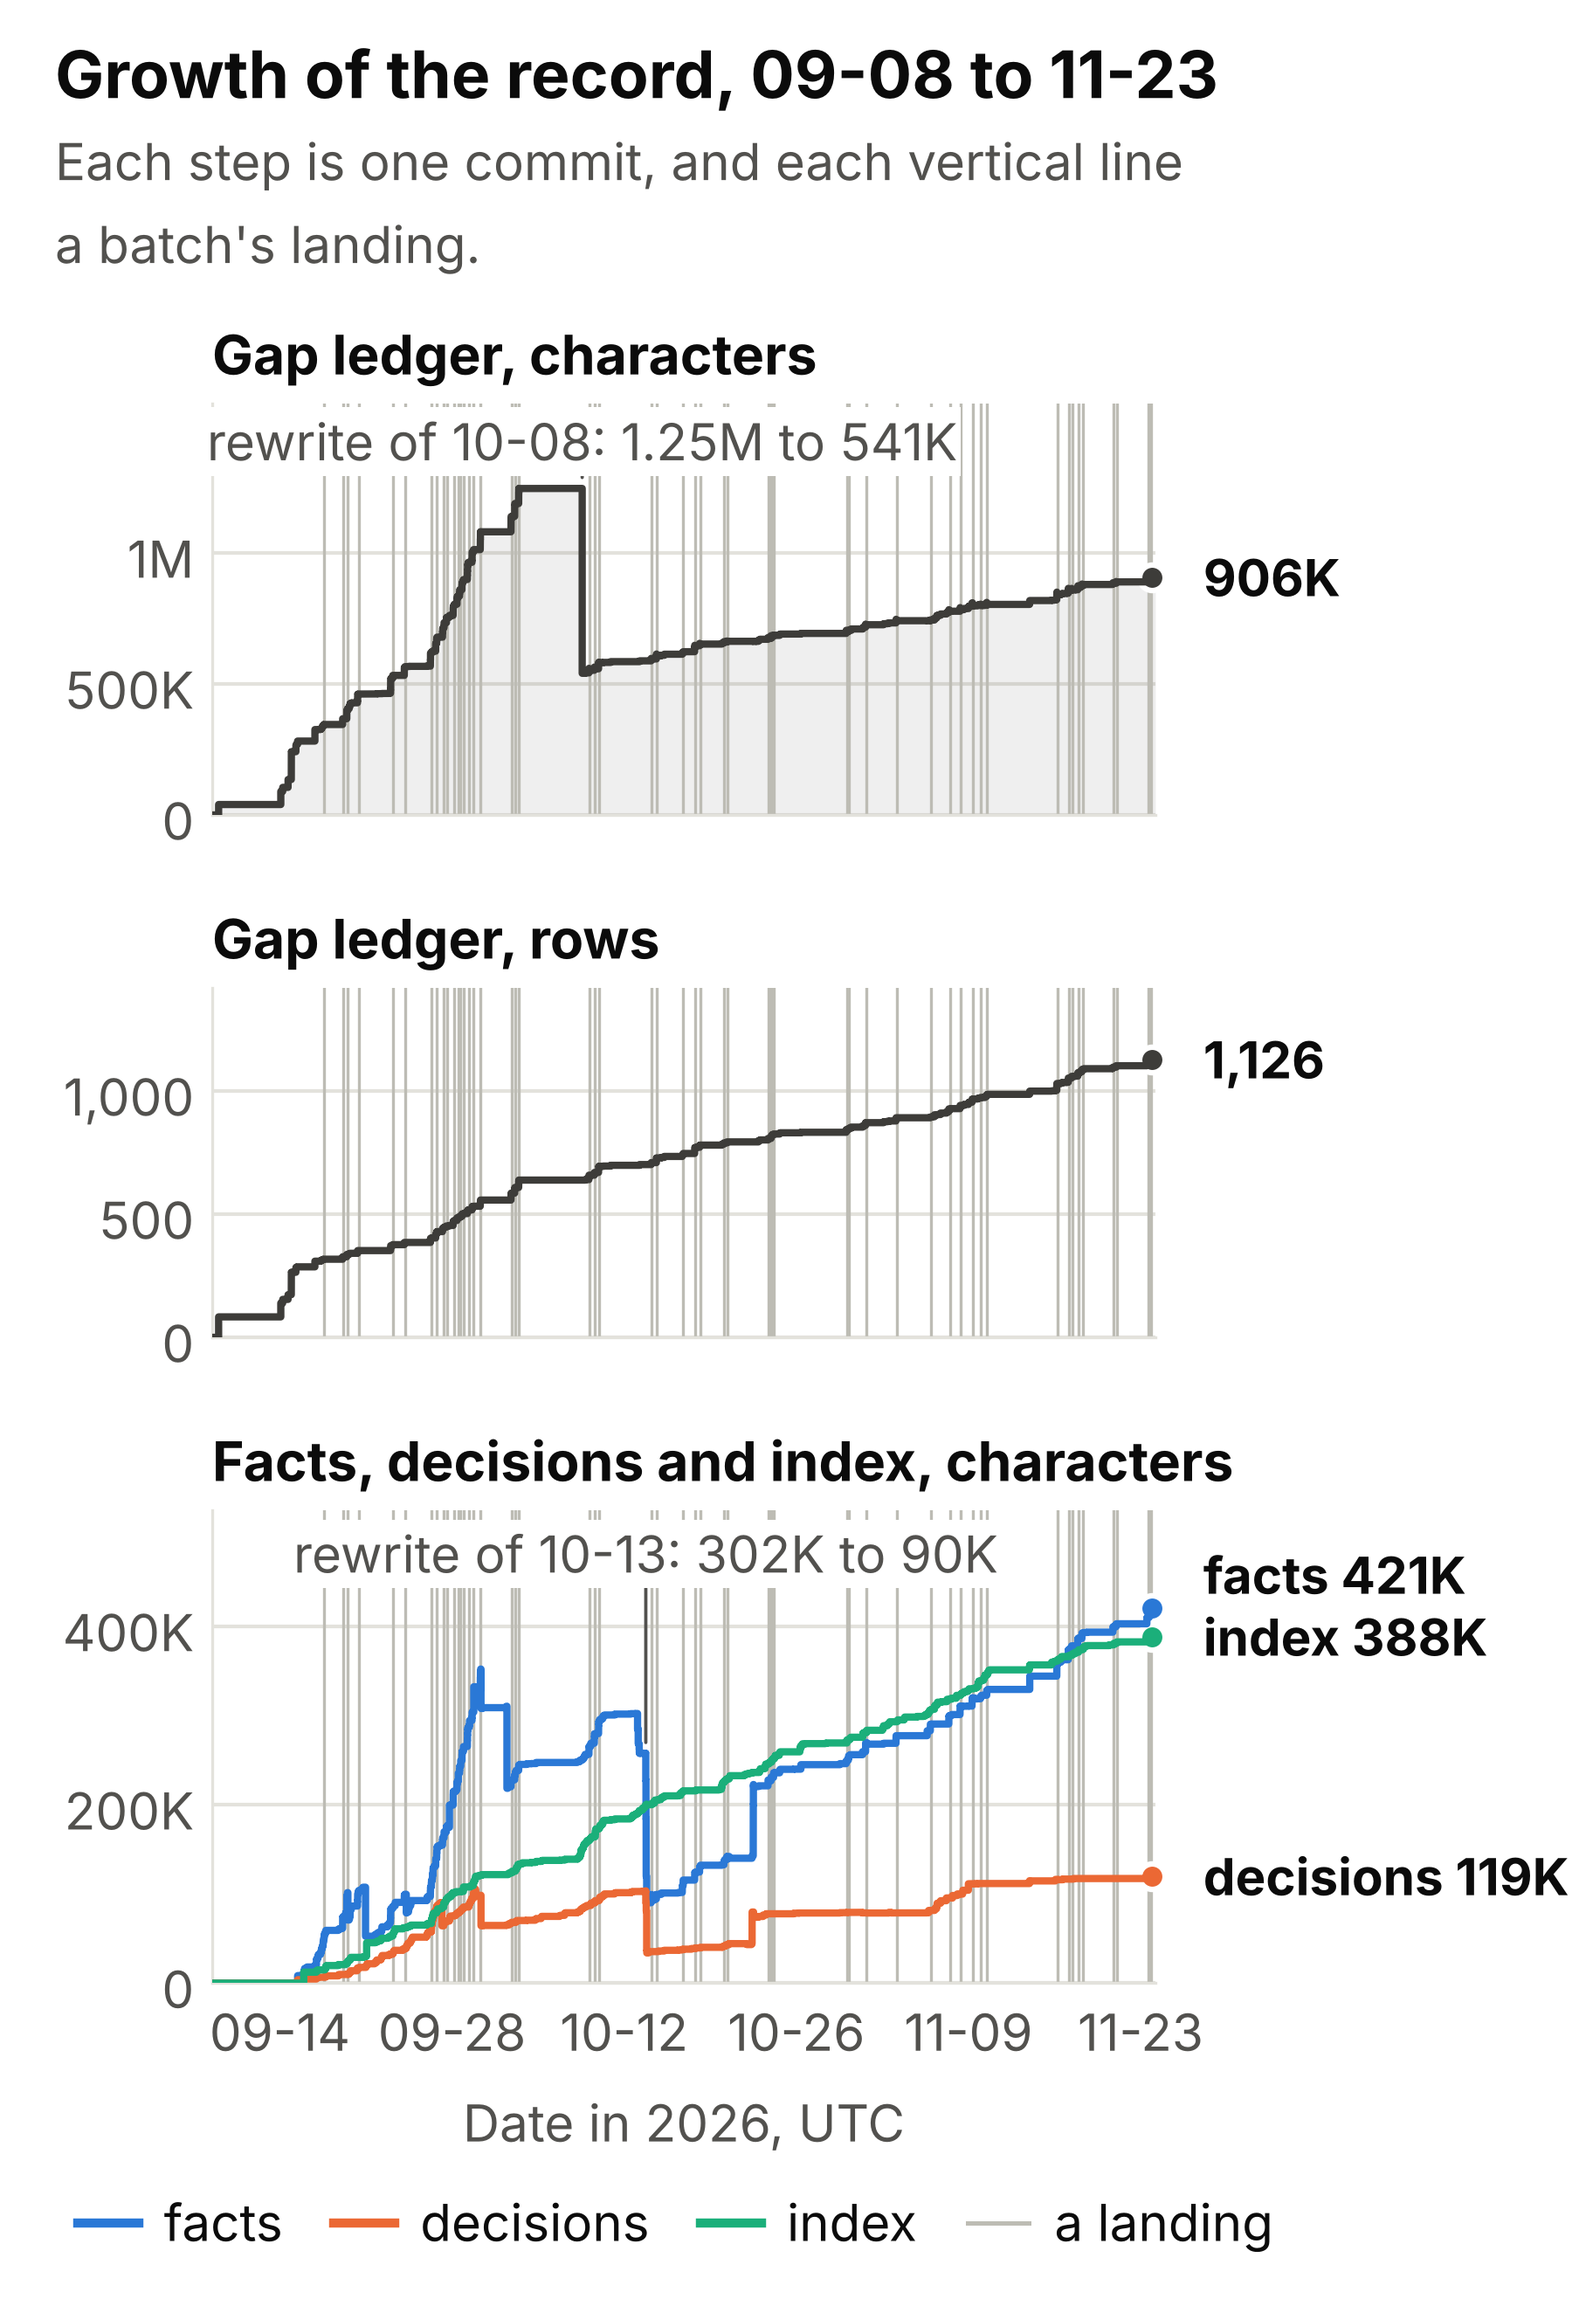
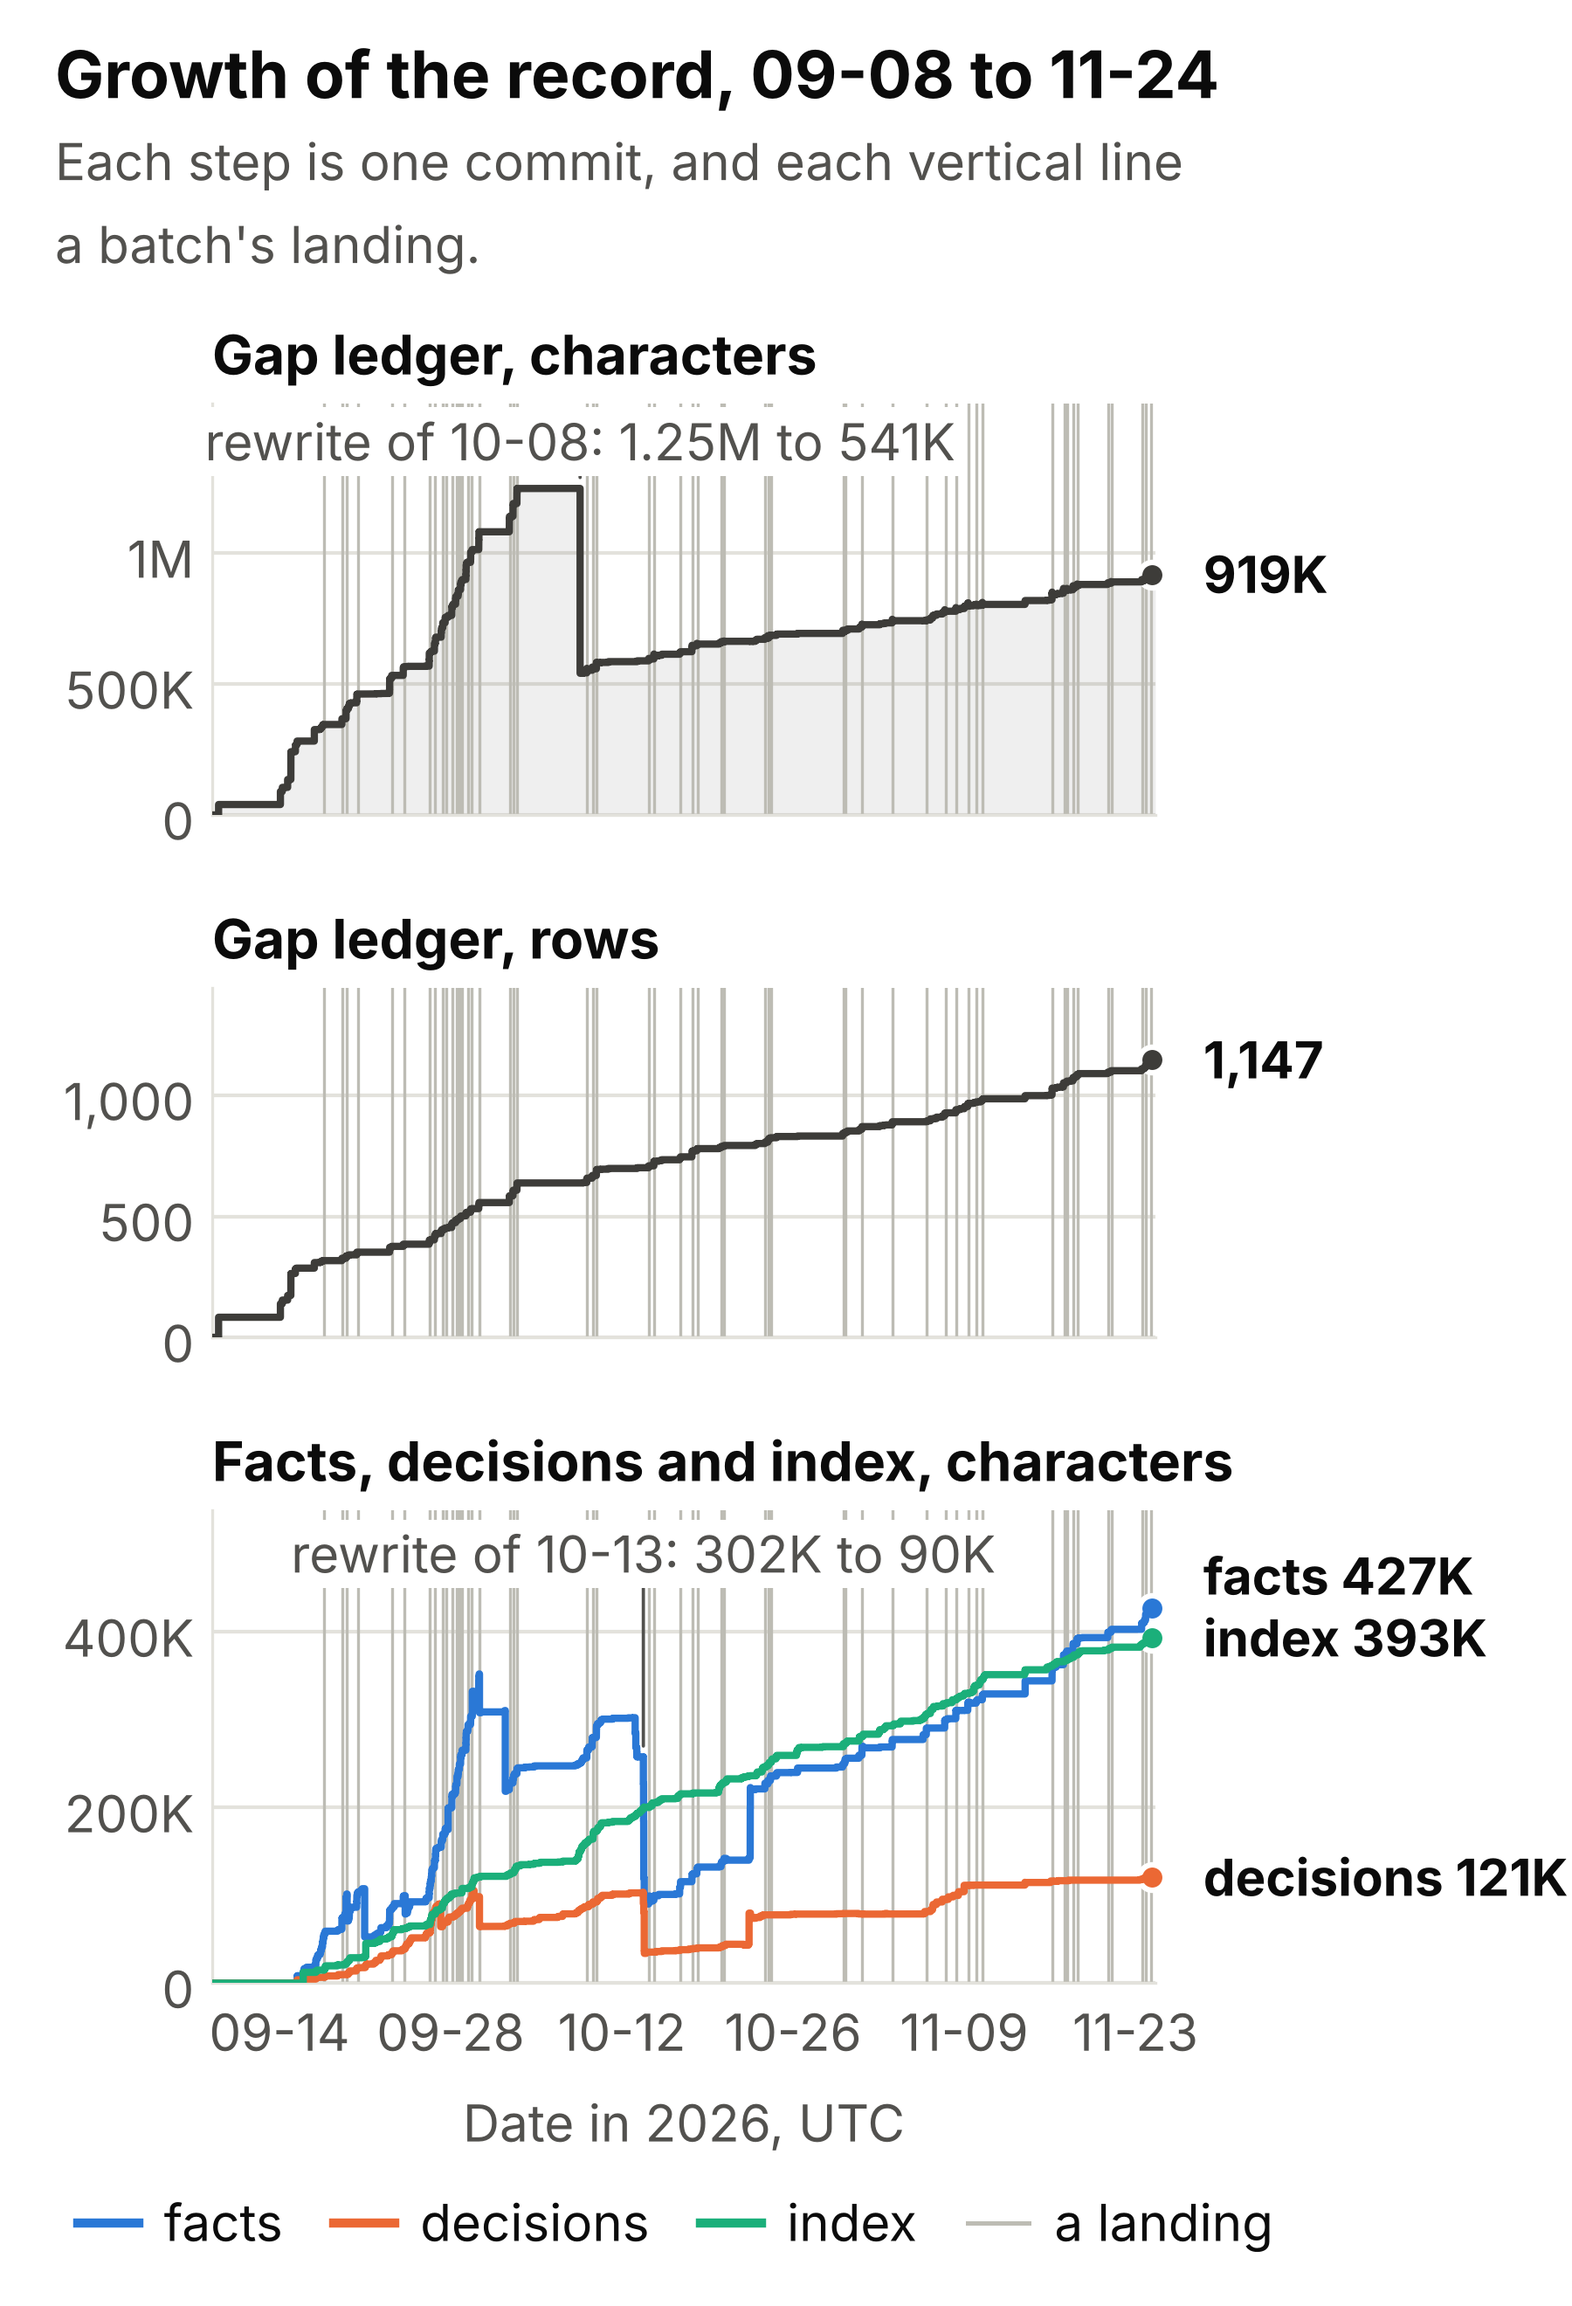
Revival page: where it stands at the landing of climb batch 36, the record chart regenerated
By the climb batch 36 landing workflow.

Claude-Session: https://claude.ai/code/session_01AmiXNpJxQ6TBwec4vJZHDB

diff --git a/docs/revival-story/index.html b/docs/revival-story/index.html
@@ -203,7 +203,7 @@ details.words dl.gloss dd { margin-left: 1em; }
 <p>A script rewrites the block below at each landing, from the plan and the gate. The rest of the page changes when a phase ends; it was last brought up to date on 23 November, at batch 35b.</p>
 <div class="intro">
 <!-- stand:begin -->
-<p><strong>Where it stands, at the landing of batch 35b on 23 November 2026</strong></p>
+<p><strong>Where it stands, at the landing of batch 36 on 24 November 2026</strong></p>
 <ul>
 <li><strong>Phase:</strong> 4 of 6, which ends with the switch-over, since 30 October.</li>
 <li><strong>Checker count:</strong> 0.</li>
@@ -211,7 +211,7 @@ details.words dl.gloss dd { margin-left: 1em; }
 <li><strong>Native bindings that both implementations can call:</strong> 373 of 401.</li>
 <li><strong>microGPT under the interpreter:</strong> the flat and the APL program pass the quick check.</li>
 <li><strong>microGPT on the compiler:</strong> both programs stop at names that only the library declares, until the switch-over.</li>
-<li><strong>Next:</strong> no batch is planned yet; by the curator's decision, the rest of the switch-over takes microGPT's slice first.</li>
+<li><strong>Next:</strong> batch 36b, the second run of batch 36.</li>
 </ul>
 <!-- stand:end -->
 </div>
@@ -309,7 +309,7 @@ details.words dl.gloss dd { margin-left: 1em; }
 <section id="the-record" class="part">
 <h2>7. The record</h2>
 <p>The record is the project's notes, kept in the repository beside the team's code. Its main parts are the gap ledger (section 5), the list of facts, the list of the curator's decisions, and an index of all notes. An agent reads the parts its task needs before it starts, so no agent works out again what the record holds.</p>
-<figure><img src="record-growth.png" alt="The gap ledger&#x27;s characters and rows, and the sizes of the facts, the decisions and the index, commit by commit from 09-08 to 11-23, with each batch&#x27;s landing marked" width="900" height="1320"></figure>
+<figure><img src="record-growth.png" alt="The gap ledger&#x27;s characters and rows, and the sizes of the facts, the decisions and the index, commit by commit from 09-08 to 11-24, with each batch&#x27;s landing marked" width="900" height="1320"></figure>
 <p>The chart has three panels on one time axis, with a vertical line at each batch's landing. They show the ledger's characters, its rows, and the sizes of the facts, the decisions and the index. The ledger grows mostly while batches run, and the index by one line for each new note. Each sharp fall is a rewrite that shortened the entries, with the earlier text kept in history.</p>
 </section>
 <footer>

diff --git a/explorations/coordinator/process-engineering/revival-story.html b/explorations/coordinator/process-engineering/revival-story.html
@@ -196,7 +196,7 @@ details.words dl.gloss dd { margin-left: 1em; }
 <p>A script rewrites the block below at each landing, from the plan and the gate. The rest of the page changes when a phase ends; it was last brought up to date on 23 November, at batch 35b.</p>
 <div class="intro">
 <!-- stand:begin -->
-<p><strong>Where it stands, at the landing of batch 35b on 23 November 2026</strong></p>
+<p><strong>Where it stands, at the landing of batch 36 on 24 November 2026</strong></p>
 <ul>
 <li><strong>Phase:</strong> 4 of 6, which ends with the switch-over, since 30 October.</li>
 <li><strong>Checker count:</strong> 0.</li>
@@ -204,7 +204,7 @@ details.words dl.gloss dd { margin-left: 1em; }
 <li><strong>Native bindings that both implementations can call:</strong> 373 of 401.</li>
 <li><strong>microGPT under the interpreter:</strong> the flat and the APL program pass the quick check.</li>
 <li><strong>microGPT on the compiler:</strong> both programs stop at names that only the library declares, until the switch-over.</li>
-<li><strong>Next:</strong> no batch is planned yet; by the curator's decision, the rest of the switch-over takes microGPT's slice first.</li>
+<li><strong>Next:</strong> batch 36b, the second run of batch 36.</li>
 </ul>
 <!-- stand:end -->
 </div>
@@ -302,7 +302,7 @@ details.words dl.gloss dd { margin-left: 1em; }
 <section id="the-record" class="part">
 <h2>7. The record</h2>
 <p>The record is the project's notes, kept in the repository beside the team's code. Its main parts are the gap ledger (section 5), the list of facts, the list of the curator's decisions, and an index of all notes. An agent reads the parts its task needs before it starts, so no agent works out again what the record holds.</p>
-<figure><img src="record-growth.png" alt="The gap ledger&#x27;s characters and rows, and the sizes of the facts, the decisions and the index, commit by commit from 09-08 to 11-23, with each batch&#x27;s landing marked" width="900" height="1320"></figure>
+<figure><img src="record-growth.png" alt="The gap ledger&#x27;s characters and rows, and the sizes of the facts, the decisions and the index, commit by commit from 09-08 to 11-24, with each batch&#x27;s landing marked" width="900" height="1320"></figure>
 <p>The chart has three panels on one time axis, with a vertical line at each batch's landing. They show the ledger's characters, its rows, and the sizes of the facts, the decisions and the index. The ledger grows mostly while batches run, and the index by one line for each new note. Each sharp fall is a rewrite that shortened the entries, with the earlier text kept in history.</p>
 </section>
 <footer>

diff --git a/explorations/coordinator/process-engineering/revival-story.md b/explorations/coordinator/process-engineering/revival-story.md
@@ -126,7 +126,7 @@ A reading is one interpretation of a rule where the specification's text allows 
 A script rewrites the block below at each landing, from the plan and the gate. The rest of the page changes when a phase ends; it was last brought up to date on 23 November, at batch 35b.
 
 <!-- stand:begin -->
-**Where it stands, at the landing of batch 35b on 23 November 2026**
+**Where it stands, at the landing of batch 36 on 24 November 2026**
 
 - **Phase:** 4 of 6, which ends with the switch-over, since 30 October.
 - **Checker count:** 0.
@@ -134,7 +134,7 @@ A script rewrites the block below at each landing, from the plan and the gate. T
 - **Native bindings that both implementations can call:** 373 of 401.
 - **microGPT under the interpreter:** the flat and the APL program pass the quick check.
 - **microGPT on the compiler:** both programs stop at names that only the library declares, until the switch-over.
-- **Next:** no batch is planned yet; by the curator's decision, the rest of the switch-over takes microGPT's slice first.
+- **Next:** batch 36b, the second run of batch 36.
 <!-- stand:end -->
 
 ## 5. What happened
